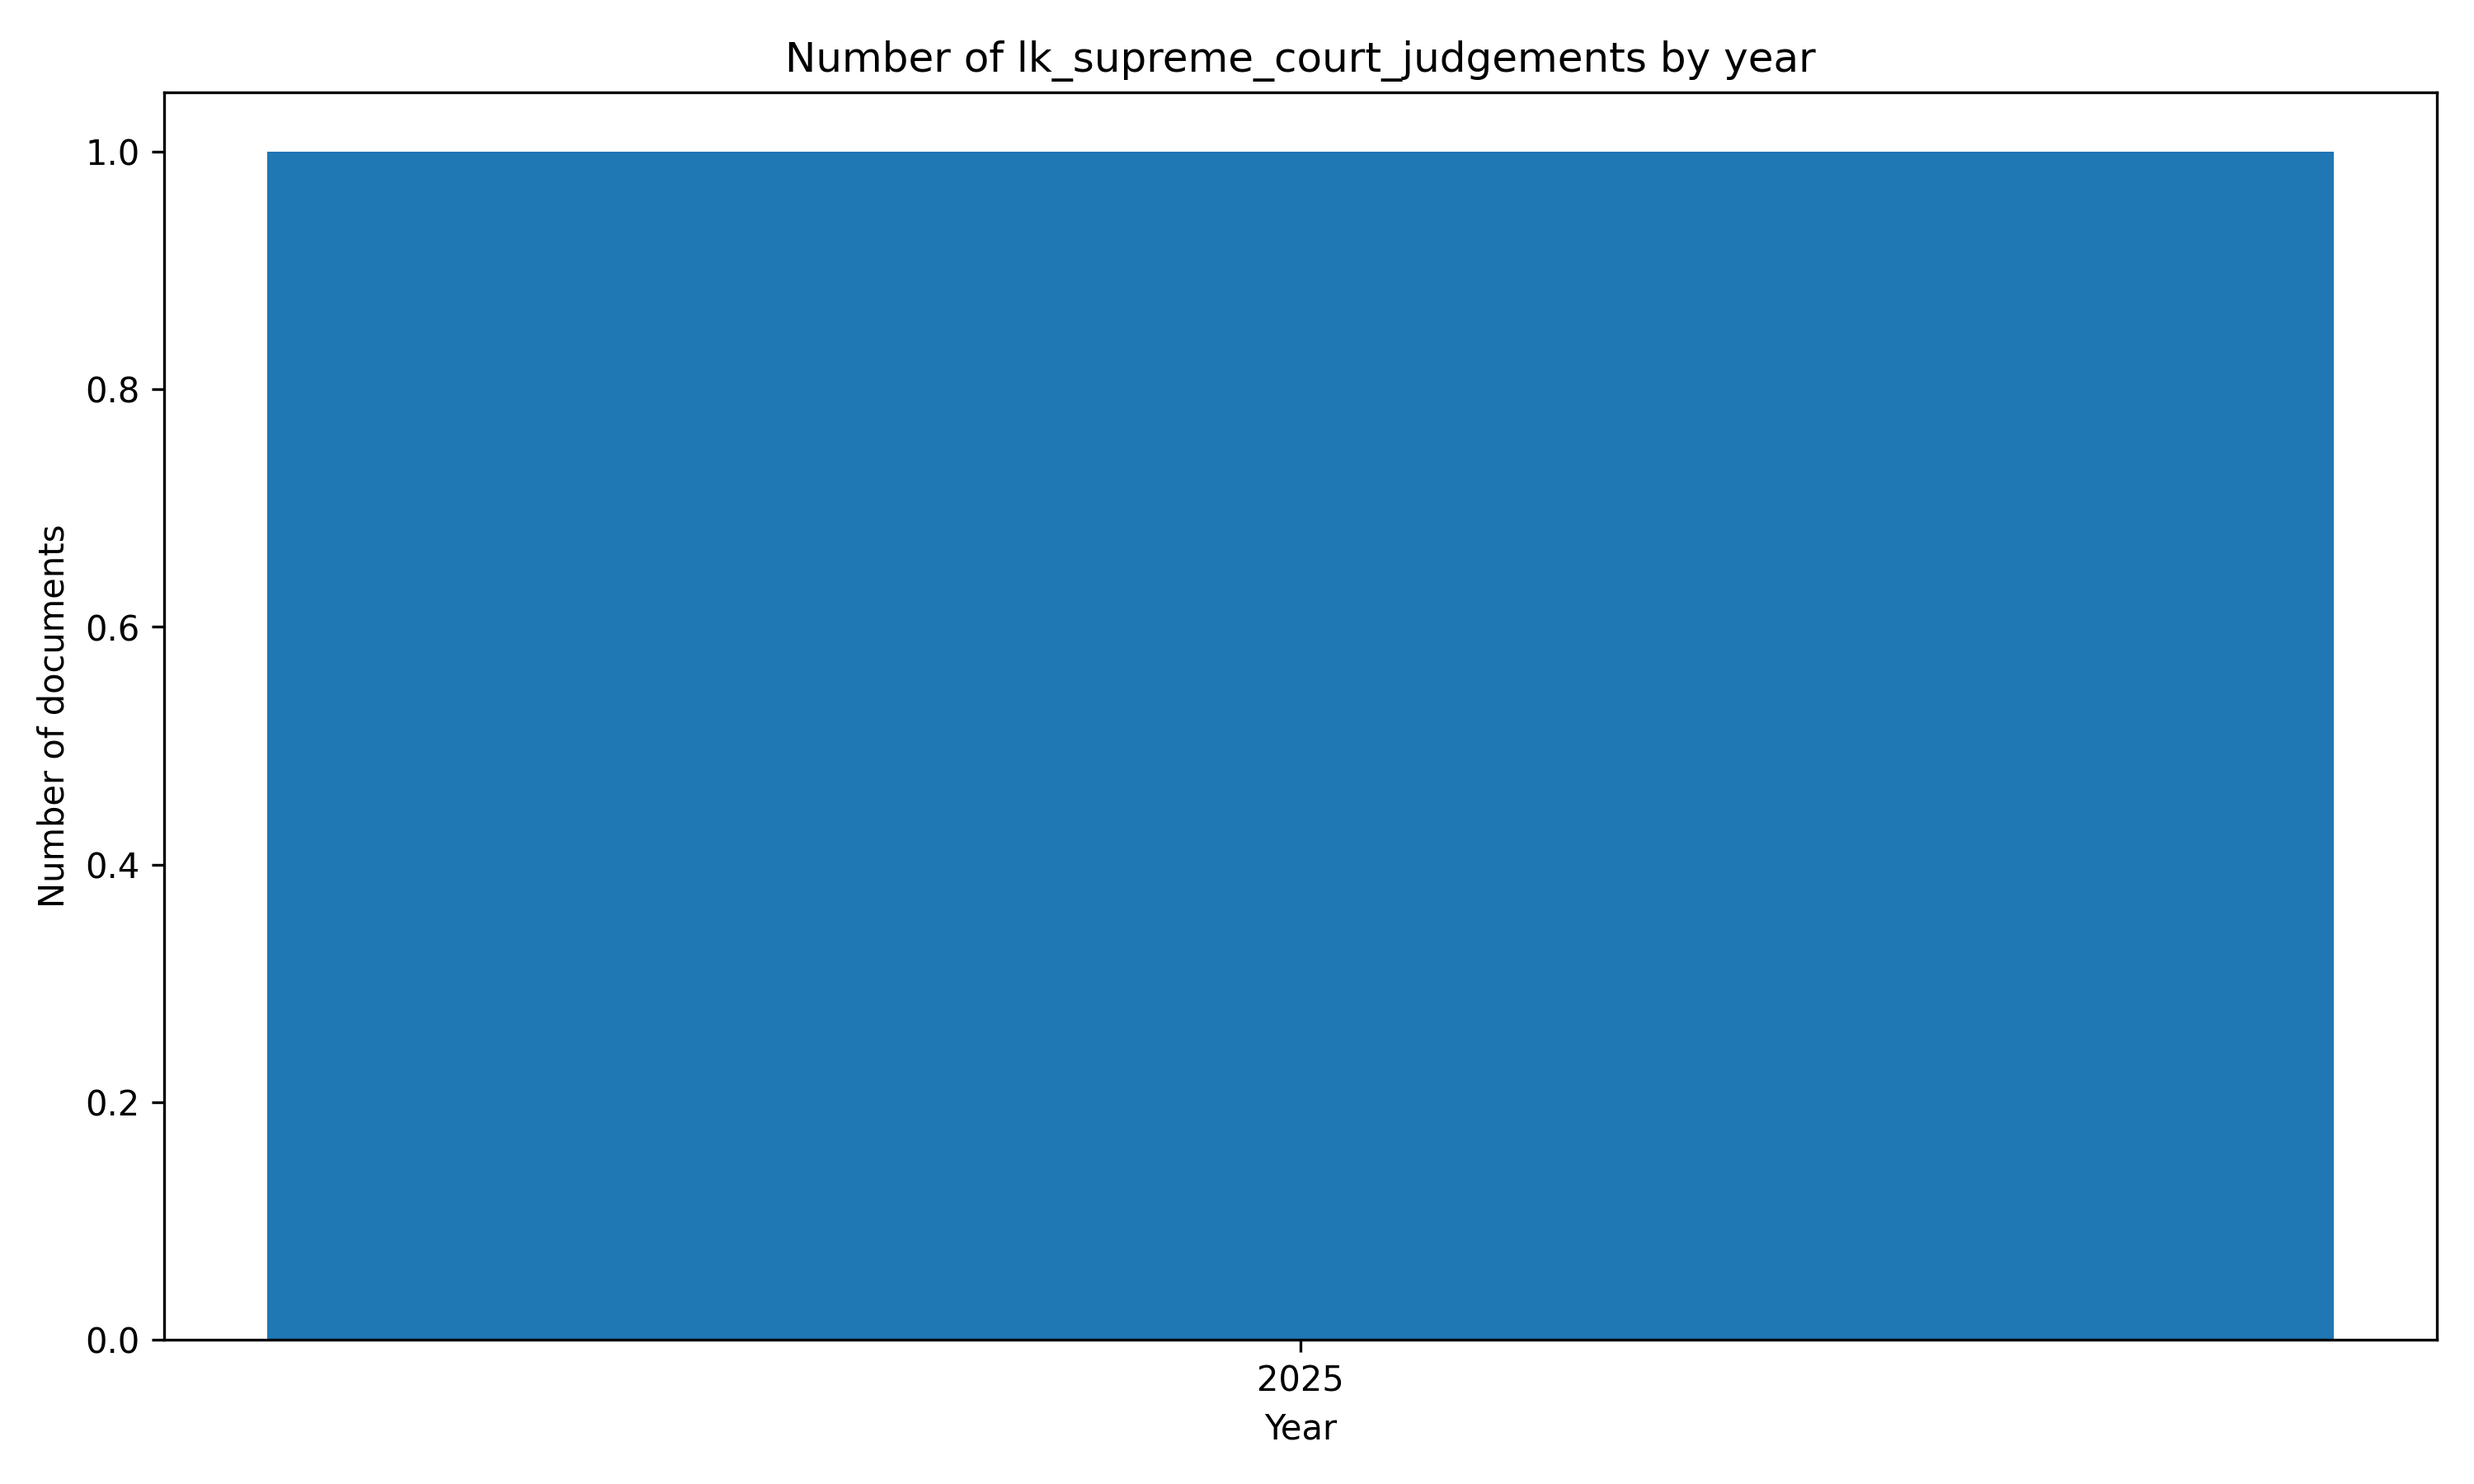
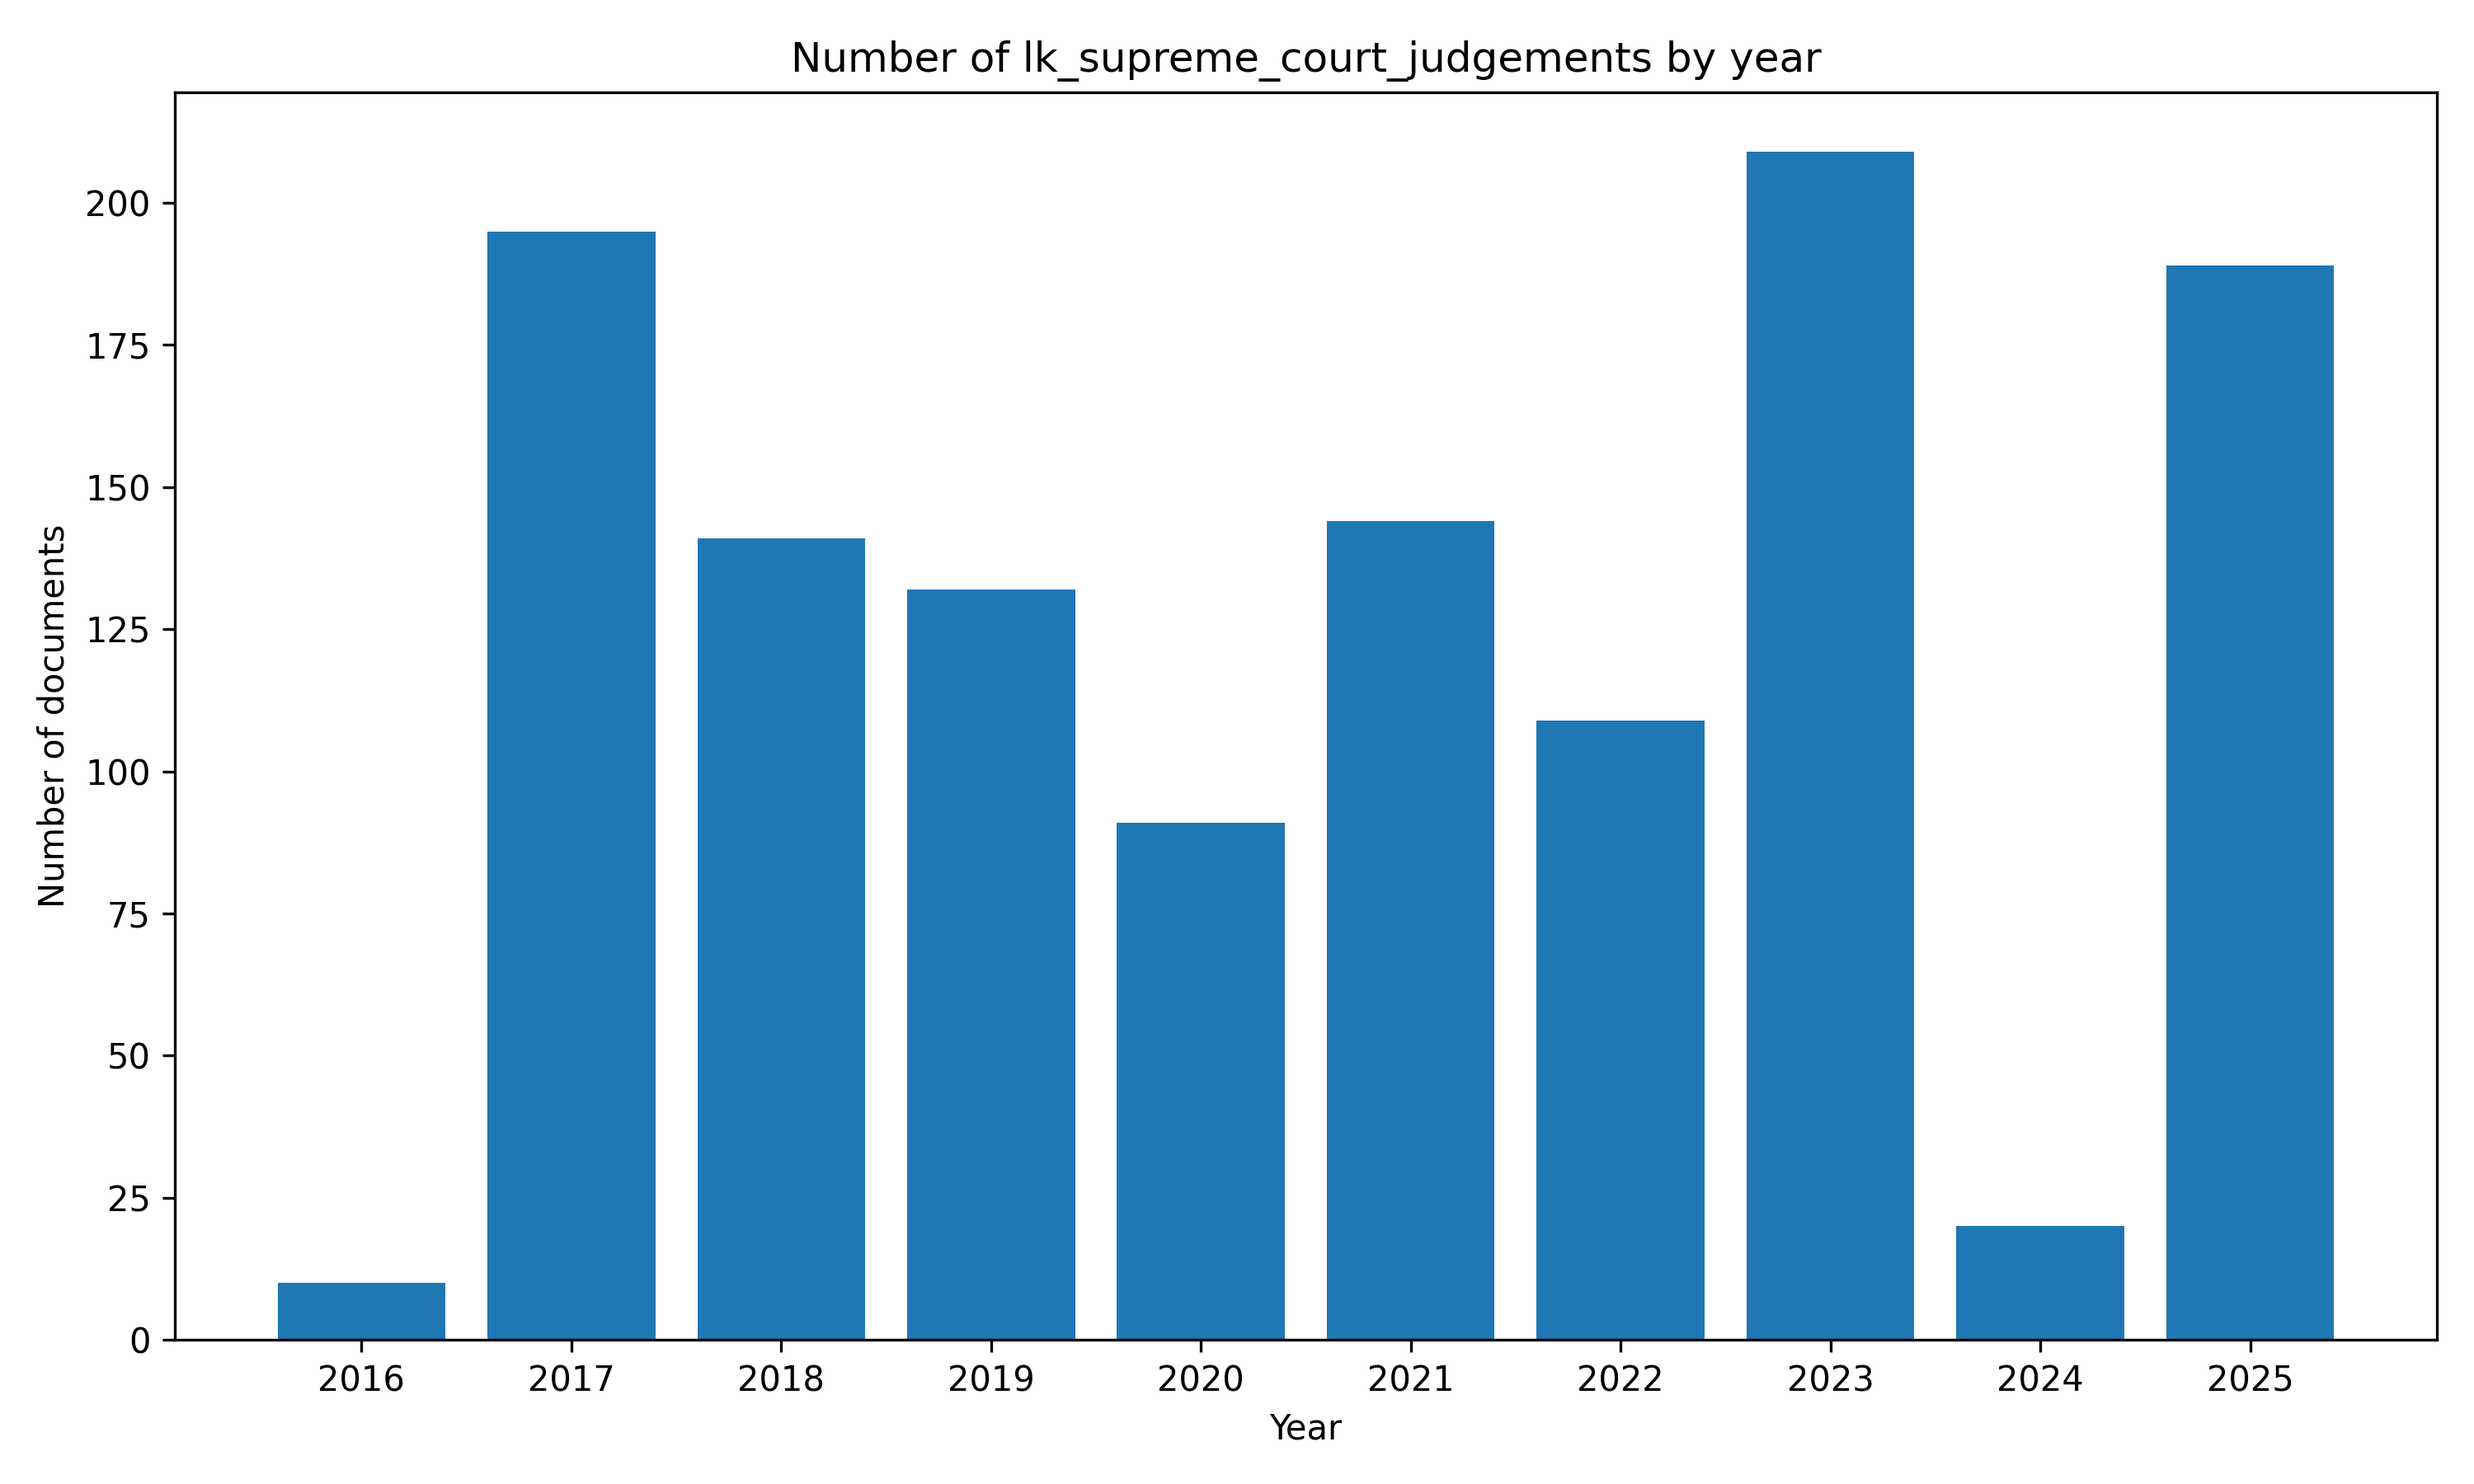
🤖 [pipeline.yml] 2025-09-18-0445

diff --git a/README.md b/README.md
@@ -1,11 +1,11 @@
 # 🇱🇰 #SriLanka Supreme Court Judgements `Dataset`
 
-![LastUpdated](https://img.shields.io/badge/last_updated-2025--09--18_09:46:20-green)
-![DatasetSize](https://img.shields.io/badge/dataset_size-0.3_GB-yellow)
+![LastUpdated](https://img.shields.io/badge/last_updated-2025--09--18_10:15:18-green)
+![DatasetSize](https://img.shields.io/badge/dataset_size-0.1_GB-yellow)
 
 [https://github.com/nuuuwan/lk_supreme_court_judgements](https://github.com/nuuuwan/lk_supreme_court_judgements)
 
-📜 [**1** documents](https://github.com/nuuuwan/lk_supreme_court_judgements/tree/data) (**0.3 GB**), from **2025-09-17** to **2025-09-17**, scraped from **[https://supremecourt.lk/judgements/](https://supremecourt.lk/judgements/)**
+📜 [**1,240** documents](https://github.com/nuuuwan/lk_supreme_court_judgements/tree/data) (**0.1 GB**), from **2016-07-22** to **2025-09-17**, scraped from **[https://supremecourt.lk/judgements/](https://supremecourt.lk/judgements/)**
 
 📑 In JSON, PDF, TXT and 🤗 Hugging Face Formats
 
@@ -17,7 +17,7 @@
 
 ...
 
-*📒 PDFs have been downloaded for **1** (**100%**) documents*
+*📒 PDFs have been downloaded for **253** (**20%**) documents*
 
 🪲 #WorkInProgress - Suggestions, Questions, Ideas, & [Bug Reports](https://github.com/nuuuwan/lk_supreme_court_judgements/issues) are welcome!
 
@@ -52,6 +52,25 @@
 ## 20 Latest documents
 
 - 2025-09-17 | `SC/FR/77/2018` | 1. Atham Lebbe Mohamed Nawas ... | Hon. K. Priyantha Fernando J | [data](https://github.com/nuuuwan/lk_supreme_court_judgements/tree/data/data/lk_supreme_court_judgements/2020s/2025/2025-09-17-SC-FR-77-2018)
+- 2025-09-16 | `SC/FR/3/2009` | 1. Sumith Aluthkorala. 42/C, ... | Hon. Janak De Silva J | [data](https://github.com/nuuuwan/lk_supreme_court_judgements/tree/data/data/lk_supreme_court_judgements/2020s/2025/2025-09-16-SC-FR-3-2009)
+- 2025-09-12 | `SC/APPEAL/59/2024` | China Great Wall Hospital Pri... | Hon. Achala Wengappuli J | [data](https://github.com/nuuuwan/lk_supreme_court_judgements/tree/data/data/lk_supreme_court_judgements/2020s/2025/2025-09-12-SC-APPEAL-59-2024)
+- 2025-09-12 | `SC/APPEAL/40/2015` | Ihala Hewage Don Bonny Jayara... | Hon. Janak De Silva J | [data](https://github.com/nuuuwan/lk_supreme_court_judgements/tree/data/data/lk_supreme_court_judgements/2020s/2025/2025-09-12-SC-APPEAL-40-2015)
+- 2025-09-11 | `SC/FR/403/2015 AND SC/FR/404/2015` | I.P.D.P. Kulasuriya, No. 53/2... | Hon. A.L. Shiran Gooneratne J | [data](https://github.com/nuuuwan/lk_supreme_court_judgements/tree/data/data/lk_supreme_court_judgements/2020s/2025/2025-09-11-SC-FR-403-2015-AND-SC-F-6d6cc413)
+- 2025-09-11 | `SC/FR/402/2019 AND SC/FR/429/2015` | 1. N. Jayasena, No. 290/4, Ni... | Hon. Sampath B. Abayakoon J | [data](https://github.com/nuuuwan/lk_supreme_court_judgements/tree/data/data/lk_supreme_court_judgements/2020s/2025/2025-09-11-SC-FR-402-2019-AND-SC-F-0b1269f2)
+- 2025-09-11 | `SC/APPEAL/86/2009` | Dilani Nima Nanayakkara, 150,... | Hon. A. L. Shiran Gooneratne J | [data](https://github.com/nuuuwan/lk_supreme_court_judgements/tree/data/data/lk_supreme_court_judgements/2020s/2025/2025-09-11-SC-APPEAL-86-2009)
+- 2025-09-11 | `SC/APPEAL/34/2021` | Karunasundera Devayalage Upul... | Hon. Menaka Wijesundera J | [data](https://github.com/nuuuwan/lk_supreme_court_judgements/tree/data/data/lk_supreme_court_judgements/2020s/2025/2025-09-11-SC-APPEAL-34-2021)
+- 2025-09-11 | `SC/APPEAL/28/2023` | 1. Dr. Asela Gunawardena, Dir... | Hon. Janak De Silva J | [data](https://github.com/nuuuwan/lk_supreme_court_judgements/tree/data/data/lk_supreme_court_judgements/2020s/2025/2025-09-11-SC-APPEAL-28-2023)
+- 2025-09-11 | `SC/APPEAL/153/2018` | Pathirana Arachchige Vipulasi... | Hon. A.L. Shiran Gooneratne J | [data](https://github.com/nuuuwan/lk_supreme_court_judgements/tree/data/data/lk_supreme_court_judgements/2020s/2025/2025-09-11-SC-APPEAL-153-2018)
+- 2025-09-10 | `SC/FR/282/2015` | 1. K. D. Chandrasekara, 2. K.... | Hon. S. Thurairaja PC J | [data](https://github.com/nuuuwan/lk_supreme_court_judgements/tree/data/data/lk_supreme_court_judgements/2020s/2025/2025-09-10-SC-FR-282-2015)
+- 2025-09-09 | `SC/FR/371/2015` | 1. Pitawasala Koralage Handun... | Hon. Sampath B. Abayakoon J | [data](https://github.com/nuuuwan/lk_supreme_court_judgements/tree/data/data/lk_supreme_court_judgements/2020s/2025/2025-09-09-SC-FR-371-2015)
+- 2025-09-08 | `SC/APPEAL/162/2013` | 1. W.H.M. Gunaratne, 251/1, D... | Hon. Sampath B. Abayakoon J | [data](https://github.com/nuuuwan/lk_supreme_court_judgements/tree/data/data/lk_supreme_court_judgements/2020s/2025/2025-09-08-SC-APPEAL-162-2013)
+- 2025-09-08 | `SC/APPEAL/115/2013` | 1B,16A. Edirisingha Mudiyanse... | Hon. Janak De Silva J | [data](https://github.com/nuuuwan/lk_supreme_court_judgements/tree/data/data/lk_supreme_court_judgements/2020s/2025/2025-09-08-SC-APPEAL-115-2013)
+- 2025-09-04 | `SC/FR/276/2018` | Lokugamhewage Deepika Damayan... | Hon. Menaka Wijesundera J | [data](https://github.com/nuuuwan/lk_supreme_court_judgements/tree/data/data/lk_supreme_court_judgements/2020s/2025/2025-09-04-SC-FR-276-2018)
+- 2025-09-04 | `SC/CHC APPEAL/52/2019` | Lanka Orix Leasing Company PL... | Hon. Menaka Wijesundera J | [data](https://github.com/nuuuwan/lk_supreme_court_judgements/tree/data/data/lk_supreme_court_judgements/2020s/2025/2025-09-04-SC-CHC-APPEAL-52-2019)
+- 2025-09-04 | `SC/APPEAL/98/2014` | 1. Jayasuriya Arachchige Leel... | Hon. Janak De Silva J | [data](https://github.com/nuuuwan/lk_supreme_court_judgements/tree/data/data/lk_supreme_court_judgements/2020s/2025/2025-09-04-SC-APPEAL-98-2014)
+- 2025-09-04 | `SC/APPEAL/85/2023` | Mallawa Waduge Jayaratne No. ... | Hon. M. Sampath K. B. Wijeratne J | [data](https://github.com/nuuuwan/lk_supreme_court_judgements/tree/data/data/lk_supreme_court_judgements/2020s/2025/2025-09-04-SC-APPEAL-85-2023)
+- 2025-09-04 | `SC/APPEAL/67/2025` | Lillie Rupasinghe No. 25, Hil... | Hon. Sobhitha Rajakaruna J | [data](https://github.com/nuuuwan/lk_supreme_court_judgements/tree/data/data/lk_supreme_court_judgements/2020s/2025/2025-09-04-SC-APPEAL-67-2025)
+- 2025-09-04 | `SC/APPEAL/54/2022` | Ignatius Brito Kaithan Pulle ... | Hon. M. Sampath K. B. Wijeratne J | [data](https://github.com/nuuuwan/lk_supreme_court_judgements/tree/data/data/lk_supreme_court_judgements/2020s/2025/2025-09-04-SC-APPEAL-54-2022)
 
 ---
 
